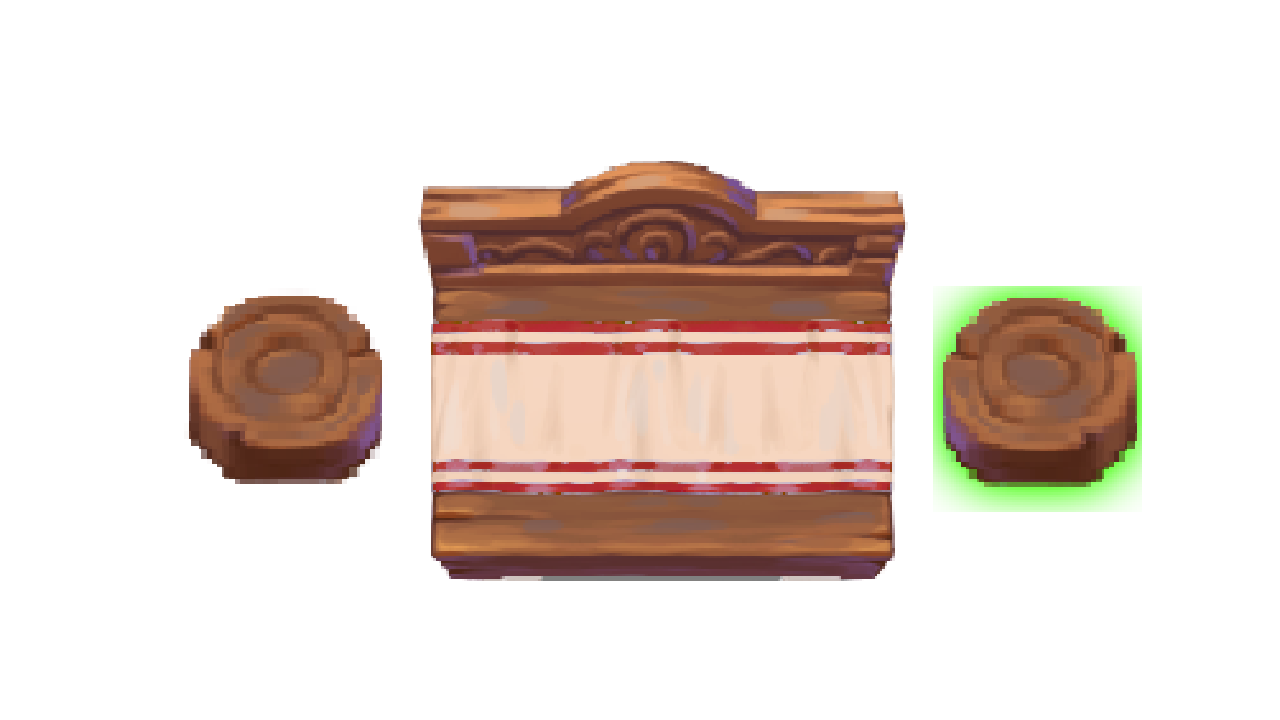
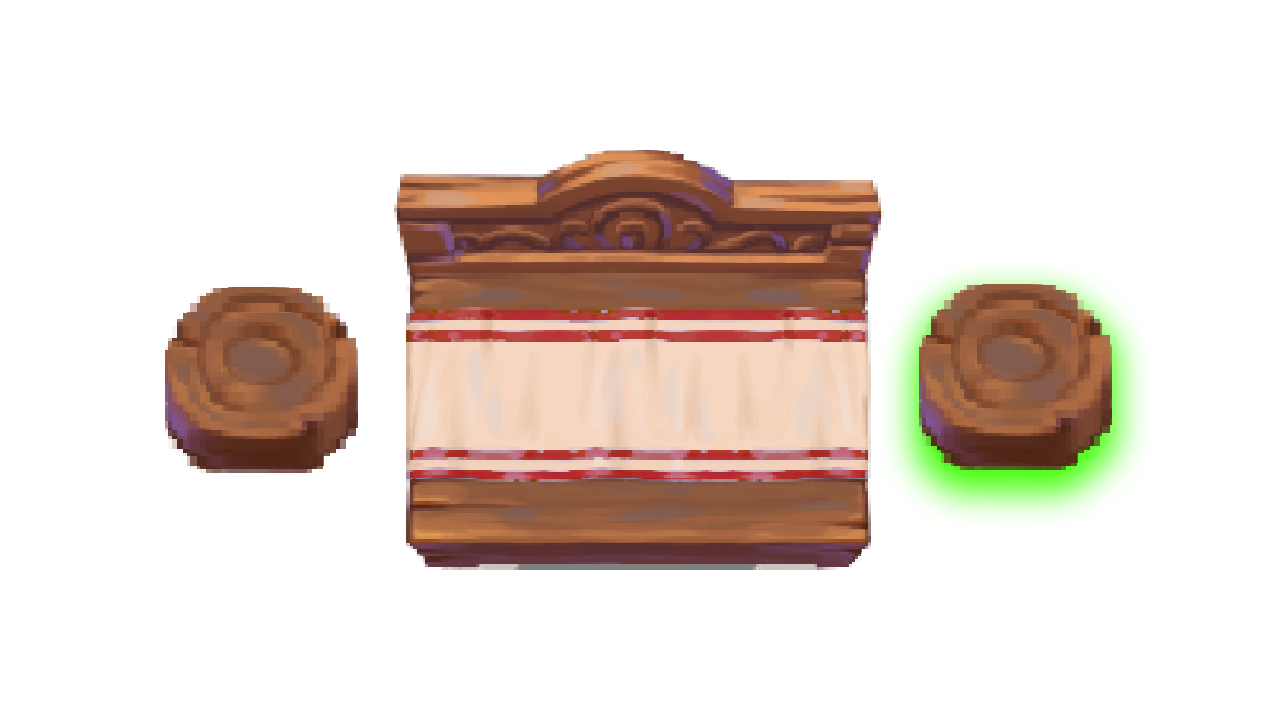
Fix yes no menu

Changed region(s): [[0.125, 0.1833, 0.9062, 0.825]]

diff --git a/src/scenes/lobby/render.c b/src/scenes/lobby/render.c
@@ -67,14 +67,14 @@ static SDL_Surface* getLobby(ImageCollector* myImageCollector, FontCollector* my
         posMenu1xInterface.x = 0;
         posMenu1xInterface.y = 0;
 
-        posMenu1x1.x = 450;
+        posMenu1x1.x = 425;
         posMenu1x1.y = 335;
 
-        posMenu1x2.x = posMenu1x1.x - 223;
-        posMenu1x2.y = posMenu1x1.y - 10;
+        posMenu1x2.x = posMenu1x1.x - 221;
+        posMenu1x2.y = posMenu1x1.y - 18;
 
-        posMenu1x3.x = posMenu1x1.x + 548;
-        posMenu1x3.y = posMenu1x1.y - 10;
+        posMenu1x3.x = posMenu1x1.x + 550;
+        posMenu1x3.y = posMenu1x1.y - 18;
 
         SDL_BlitSurface(interface, NULL, lobbySurface, &posMenu1xInterface);
         SDL_BlitSurface(menu1x1, NULL, lobbySurface, &posMenu1x1);
@@ -125,7 +125,7 @@ static SDL_Surface* getLobby(ImageCollector* myImageCollector, FontCollector* my
             interface = get_ImageCollector(myImageCollector, "lobby/menu12")->surface;
         }
 
-        menu1x1 = TTF_RenderText_Solid(font1, "Dare you enter?", brown);
+        menu1x1 = TTF_RenderText_Solid(font1, "Dare you enter?", brown); // Fucking relative layout @nerstak
         menu1x2 = TTF_RenderText_Solid(font2, "YES", brown);
         menu1x3 = TTF_RenderText_Solid(font2, "NO", brown);
 
@@ -133,14 +133,14 @@ static SDL_Surface* getLobby(ImageCollector* myImageCollector, FontCollector* my
         posMenu1xInterface.x = 0;
         posMenu1xInterface.y = 0;
 
-        posMenu1x1.x =  450;
-        posMenu1x1.y =  345;
+        posMenu1x1.x = 425;
+        posMenu1x1.y = 335;
 
-        posMenu1x2.x = posMenu1x1.x - 223;
-        posMenu1x2.y = posMenu1x1.y - 20;
+        posMenu1x2.x = posMenu1x1.x - 221;
+        posMenu1x2.y = posMenu1x1.y - 18;
 
-        posMenu1x3.x = posMenu1x1.x + 548;
-        posMenu1x3.y = posMenu1x1.y - 20;
+        posMenu1x3.x = posMenu1x1.x + 550;
+        posMenu1x3.y = posMenu1x1.y - 18;
 
         SDL_BlitSurface(interface, NULL, lobbySurface, &posMenu1xInterface);
         SDL_BlitSurface(menu1x1, NULL, lobbySurface, &posMenu1x1);
